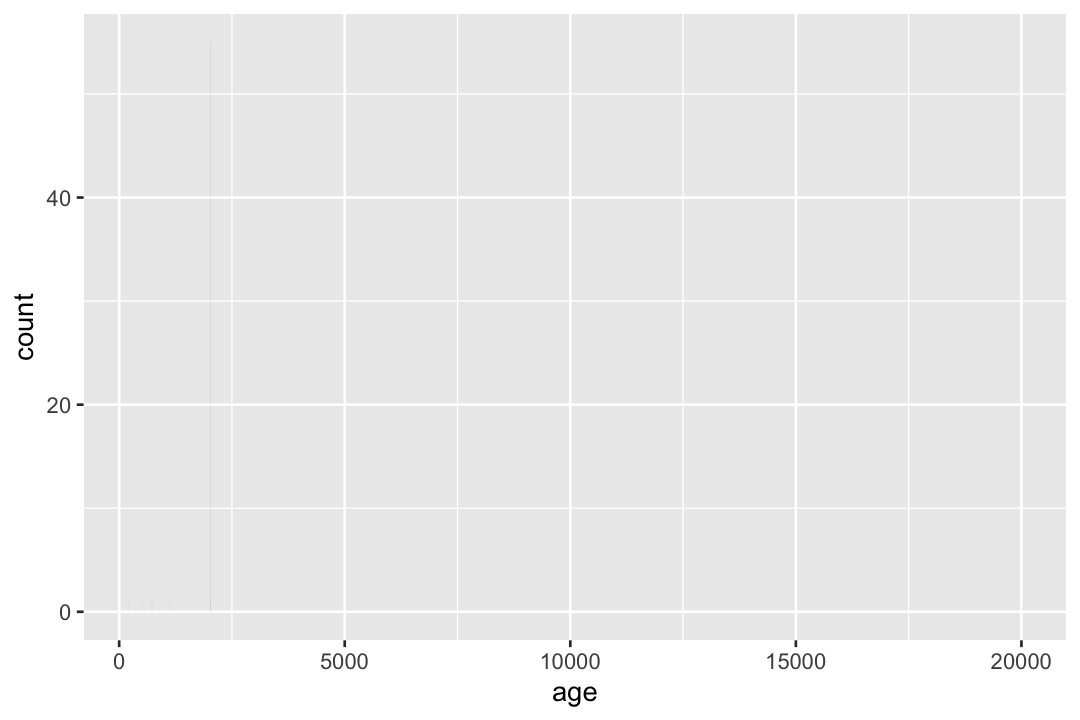
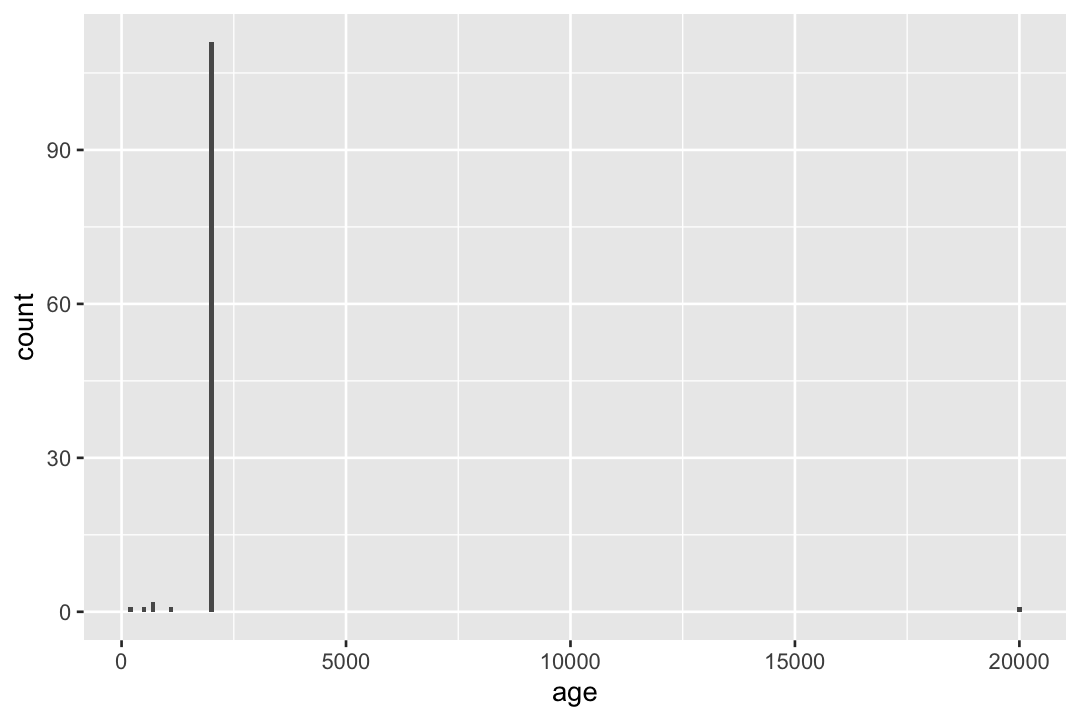
r

diff --git a/docs/contents/cleaning.html b/docs/contents/cleaning.html
@@ -6,7 +6,7 @@
 
 <meta name="viewport" content="width=device-width, initial-scale=1.0, user-scalable=yes">
 
-<meta name="dcterms.date" content="2025-03-13">
+<meta name="dcterms.date" content="2025-03-20">
 
 <title>Cleaning –  CHA Statistics in R</title>
 <style>
@@ -371,7 +371,7 @@ gtag('config', 'G-3JGE58SZ6T', { 'anonymize_ip': true});
     <div>
     <div class="quarto-title-meta-heading">Published</div>
     <div class="quarto-title-meta-contents">
-      <p class="date">March 13, 2025</p>
+      <p class="date">March 20, 2025</p>
     </div>
   </div>
   
@@ -393,7 +393,7 @@ gtag('config', 'G-3JGE58SZ6T', { 'anonymize_ip': true});
 <li><code>factor()</code> : 카테고리 변수의 변환</li>
 </ul>
 <p>앞서 다운받은 데이터: <a href="https://www.dropbox.com/s/fvuoi6jev84bnkc/altruism.csv?dl=1">altruism.csv 파일 링크</a></p>
-<div id="cell-3" class="cell" data-vscode="{&quot;languageId&quot;:&quot;r&quot;}" data-execution_count="2">
+<div id="cell-3" class="cell" data-vscode="{&quot;languageId&quot;:&quot;r&quot;}" data-execution_count="3">
 <div class="sourceCode cell-code" id="cb1"><pre class="sourceCode r code-with-copy"><code class="sourceCode r"><span id="cb1-1"><a href="#cb1-1" aria-hidden="true" tabindex="-1"></a><span class="fu">library</span>(tidyverse)</span>
 <span id="cb1-2"><a href="#cb1-2" aria-hidden="true" tabindex="-1"></a></span>
 <span id="cb1-3"><a href="#cb1-3" aria-hidden="true" tabindex="-1"></a><span class="co"># import data</span></span>
@@ -416,7 +416,7 @@ gtag('config', 'G-3JGE58SZ6T', { 'anonymize_ip': true});
 <section id="변수명-수정" class="level3">
 <h3 class="anchored" data-anchor-id="변수명-수정">변수명 수정</h3>
 <p><code>rename()</code></p>
-<div id="cell-5" class="cell" data-vscode="{&quot;languageId&quot;:&quot;r&quot;}" data-execution_count="3">
+<div id="cell-5" class="cell" data-vscode="{&quot;languageId&quot;:&quot;r&quot;}" data-execution_count="4">
 <div class="sourceCode cell-code" id="cb3"><pre class="sourceCode r code-with-copy"><code class="sourceCode r"><span id="cb3-1"><a href="#cb3-1" aria-hidden="true" tabindex="-1"></a>helping <span class="sc">|&gt;</span></span>
 <span id="cb3-2"><a href="#cb3-2" aria-hidden="true" tabindex="-1"></a>  <span class="fu">rename</span>(<span class="at">ph1 =</span> pho_1, <span class="at">ph2 =</span> pho_2, <span class="at">ph3 =</span> pho_3) <span class="sc">|&gt;</span></span>
 <span id="cb3-3"><a href="#cb3-3" aria-hidden="true" tabindex="-1"></a>  <span class="fu">print</span>()</span></code><button title="Copy to Clipboard" class="code-copy-button"><i class="bi"></i></button></pre></div>
@@ -435,7 +435,7 @@ gtag('config', 'G-3JGE58SZ6T', { 'anonymize_ip': true});
 </div>
 </div>
 <p>변형 후에는 꼭 변수에 <strong>assign!</strong></p>
-<div id="cell-7" class="cell" data-vscode="{&quot;languageId&quot;:&quot;r&quot;}" data-execution_count="4">
+<div id="cell-7" class="cell" data-vscode="{&quot;languageId&quot;:&quot;r&quot;}" data-execution_count="5">
 <div class="sourceCode cell-code" id="cb5"><pre class="sourceCode r code-with-copy"><code class="sourceCode r"><span id="cb5-1"><a href="#cb5-1" aria-hidden="true" tabindex="-1"></a>helping <span class="ot">&lt;-</span> <span class="co"># 원래 데이터에 overwrite</span></span>
 <span id="cb5-2"><a href="#cb5-2" aria-hidden="true" tabindex="-1"></a>  helping <span class="sc">|&gt;</span></span>
 <span id="cb5-3"><a href="#cb5-3" aria-hidden="true" tabindex="-1"></a>  <span class="fu">rename</span>(<span class="at">ph1 =</span> pho_1, <span class="at">ph2 =</span> pho_2, <span class="at">ph3 =</span> pho_3)</span>
@@ -460,7 +460,7 @@ gtag('config', 'G-3JGE58SZ6T', { 'anonymize_ip': true});
 <h3 class="anchored" data-anchor-id="문항을-더할-때">문항을 더할 때</h3>
 <p><code>rowSums(row, na.rm = TRUE)</code> 함수를 이용하는 것이 직접 덧셈보다 더 적절함</p>
 <p><code>ph1</code>, <code>ph2</code>, <code>ph3</code> 세 문항을 더하려면,</p>
-<div id="cell-10" class="cell" data-vscode="{&quot;languageId&quot;:&quot;r&quot;}" data-execution_count="5">
+<div id="cell-10" class="cell" data-vscode="{&quot;languageId&quot;:&quot;r&quot;}" data-execution_count="6">
 <div class="sourceCode cell-code" id="cb7"><pre class="sourceCode r code-with-copy"><code class="sourceCode r"><span id="cb7-1"><a href="#cb7-1" aria-hidden="true" tabindex="-1"></a><span class="co"># 먼저 문항을 선택/확인</span></span>
 <span id="cb7-2"><a href="#cb7-2" aria-hidden="true" tabindex="-1"></a>helping <span class="sc">|&gt;</span></span>
 <span id="cb7-3"><a href="#cb7-3" aria-hidden="true" tabindex="-1"></a>  <span class="fu">select</span>(ph1<span class="sc">:</span>ph3) <span class="sc">|&gt;</span> <span class="co"># position!</span></span>
@@ -478,7 +478,7 @@ gtag('config', 'G-3JGE58SZ6T', { 'anonymize_ip': true});
 # i 114 more rows</code></pre>
 </div>
 </div>
-<div id="cell-11" class="cell" data-vscode="{&quot;languageId&quot;:&quot;r&quot;}" data-execution_count="6">
+<div id="cell-11" class="cell" data-vscode="{&quot;languageId&quot;:&quot;r&quot;}" data-execution_count="7">
 <div class="sourceCode cell-code" id="cb9"><pre class="sourceCode r code-with-copy"><code class="sourceCode r"><span id="cb9-1"><a href="#cb9-1" aria-hidden="true" tabindex="-1"></a>helping <span class="sc">|&gt;</span></span>
 <span id="cb9-2"><a href="#cb9-2" aria-hidden="true" tabindex="-1"></a>  <span class="fu">select</span>(ph1<span class="sc">:</span>ph3) <span class="sc">|&gt;</span></span>
 <span id="cb9-3"><a href="#cb9-3" aria-hidden="true" tabindex="-1"></a>  <span class="fu">rowSums</span>(<span class="at">na.rm =</span> <span class="cn">TRUE</span>) <span class="sc">|&gt;</span></span>
@@ -493,7 +493,7 @@ gtag('config', 'G-3JGE58SZ6T', { 'anonymize_ip': true});
 [109] 197 294 280 195 255   1 162 278 176 262 300 164</code></pre>
 </div>
 </div>
-<div id="cell-12" class="cell" data-vscode="{&quot;languageId&quot;:&quot;r&quot;}" data-execution_count="7">
+<div id="cell-12" class="cell" data-vscode="{&quot;languageId&quot;:&quot;r&quot;}" data-execution_count="8">
 <div class="sourceCode cell-code" id="cb11"><pre class="sourceCode r code-with-copy"><code class="sourceCode r"><span id="cb11-1"><a href="#cb11-1" aria-hidden="true" tabindex="-1"></a>helping[<span class="st">"phone"</span>] <span class="ot">&lt;-</span> <span class="co"># "phone"이라는 새로운 변수에 assign!</span></span>
 <span id="cb11-2"><a href="#cb11-2" aria-hidden="true" tabindex="-1"></a>  helping <span class="sc">|&gt;</span></span>
 <span id="cb11-3"><a href="#cb11-3" aria-hidden="true" tabindex="-1"></a>  <span class="fu">select</span>(ph1<span class="sc">:</span>ph3) <span class="sc">|&gt;</span></span>
@@ -557,7 +557,7 @@ Note
 <section id="문항을-평균낼-때" class="level3">
 <h3 class="anchored" data-anchor-id="문항을-평균낼-때">문항을 평균낼 때</h3>
 <p><code>rowMeans(row, na.rm = TRUE)</code> 함수를 이용하는 것이 적절함</p>
-<div id="cell-15" class="cell" data-vscode="{&quot;languageId&quot;:&quot;r&quot;}" data-execution_count="8">
+<div id="cell-15" class="cell" data-vscode="{&quot;languageId&quot;:&quot;r&quot;}" data-execution_count="9">
 <div class="sourceCode cell-code" id="cb14"><pre class="sourceCode r code-with-copy"><code class="sourceCode r"><span id="cb14-1"><a href="#cb14-1" aria-hidden="true" tabindex="-1"></a><span class="co"># 먼저, 평균을 낼 문항을 선택/확인</span></span>
 <span id="cb14-2"><a href="#cb14-2" aria-hidden="true" tabindex="-1"></a>helping <span class="sc">|&gt;</span></span>
 <span id="cb14-3"><a href="#cb14-3" aria-hidden="true" tabindex="-1"></a>  <span class="fu">select</span>(emp_q20, emp_q22<span class="sc">:</span>emp_q26) <span class="sc">|&gt;</span> <span class="co"># ":" operator와 "," 섞어써도 무방</span></span>
@@ -575,7 +575,7 @@ Note
 # i 114 more rows</code></pre>
 </div>
 </div>
-<div id="cell-16" class="cell" data-vscode="{&quot;languageId&quot;:&quot;r&quot;}" data-execution_count="9">
+<div id="cell-16" class="cell" data-vscode="{&quot;languageId&quot;:&quot;r&quot;}" data-execution_count="10">
 <div class="sourceCode cell-code" id="cb16"><pre class="sourceCode r code-with-copy"><code class="sourceCode r"><span id="cb16-1"><a href="#cb16-1" aria-hidden="true" tabindex="-1"></a>helping[<span class="st">"persp"</span>] <span class="ot">&lt;-</span> helping <span class="sc">|&gt;</span> <span class="co"># "persp"라는 새로운 변수에 assign!</span></span>
 <span id="cb16-2"><a href="#cb16-2" aria-hidden="true" tabindex="-1"></a>  <span class="fu">select</span>(emp_q20, emp_q22<span class="sc">:</span>emp_q26) <span class="sc">|&gt;</span></span>
 <span id="cb16-3"><a href="#cb16-3" aria-hidden="true" tabindex="-1"></a>  <span class="fu">rowMeans</span>(<span class="at">na.rm =</span> <span class="cn">TRUE</span>)</span>
@@ -627,7 +627,7 @@ Note
 <li>표준화(standardize): <code>scale(x)</code> 함수를 이용</li>
 <li>중심화(center): <code>scale(x, scale = FALSE)</code> 함수를 이용</li>
 </ul>
-<div id="cell-19" class="cell" data-vscode="{&quot;languageId&quot;:&quot;r&quot;}" data-execution_count="12">
+<div id="cell-19" class="cell" data-vscode="{&quot;languageId&quot;:&quot;r&quot;}" data-execution_count="11">
 <div class="sourceCode cell-code" id="cb19"><pre class="sourceCode r code-with-copy"><code class="sourceCode r"><span id="cb19-1"><a href="#cb19-1" aria-hidden="true" tabindex="-1"></a>helping <span class="sc">|&gt;</span></span>
 <span id="cb19-2"><a href="#cb19-2" aria-hidden="true" tabindex="-1"></a>  <span class="fu">mutate</span>(</span>
 <span id="cb19-3"><a href="#cb19-3" aria-hidden="true" tabindex="-1"></a>    <span class="at">phone_z =</span> <span class="fu">scale</span>(phone) <span class="sc">|&gt;</span> <span class="fu">as.vector</span>(), <span class="co"># scale()은 matrix로 반환; vector 변환 필요</span></span>
@@ -650,7 +650,7 @@ Note
 </div>
 </div>
 <p><code>across()</code> 함수를 이용하면 여러 변수를 한 번에 변환할 수 있음</p>
-<div id="cell-21" class="cell" data-vscode="{&quot;languageId&quot;:&quot;r&quot;}" data-execution_count="13">
+<div id="cell-21" class="cell" data-vscode="{&quot;languageId&quot;:&quot;r&quot;}" data-execution_count="12">
 <div class="sourceCode cell-code" id="cb21"><pre class="sourceCode r code-with-copy"><code class="sourceCode r"><span id="cb21-1"><a href="#cb21-1" aria-hidden="true" tabindex="-1"></a>helping <span class="sc">|&gt;</span></span>
 <span id="cb21-2"><a href="#cb21-2" aria-hidden="true" tabindex="-1"></a>  <span class="fu">mutate</span>(<span class="fu">across</span>(</span>
 <span id="cb21-3"><a href="#cb21-3" aria-hidden="true" tabindex="-1"></a>    <span class="at">.cols =</span> <span class="fu">c</span>(phone, persp),</span>
@@ -678,7 +678,7 @@ Note
 <h3 class="anchored" data-anchor-id="카테고리-변수-및-연산">카테고리 변수 및 연산</h3>
 <p>카테고리 변수는 R의 <strong>factor</strong> 타입으로 바꾸어 분석하는 것이 유리함.</p>
 <p>간단한 연산은 직접 계산.</p>
-<div id="cell-23" class="cell" data-vscode="{&quot;languageId&quot;:&quot;r&quot;}" data-execution_count="14">
+<div id="cell-23" class="cell" data-vscode="{&quot;languageId&quot;:&quot;r&quot;}" data-execution_count="13">
 <div class="sourceCode cell-code" id="cb23"><pre class="sourceCode r code-with-copy"><code class="sourceCode r"><span id="cb23-1"><a href="#cb23-1" aria-hidden="true" tabindex="-1"></a>helping <span class="sc">|&gt;</span></span>
 <span id="cb23-2"><a href="#cb23-2" aria-hidden="true" tabindex="-1"></a>  <span class="fu">mutate</span>(</span>
 <span id="cb23-3"><a href="#cb23-3" aria-hidden="true" tabindex="-1"></a>    <span class="at">sex =</span> <span class="fu">factor</span>(sex, <span class="at">levels =</span> <span class="fu">c</span>(<span class="dv">0</span>, <span class="dv">1</span>), <span class="at">labels =</span> <span class="fu">c</span>(<span class="st">"male"</span>, <span class="st">"female"</span>)), <span class="co"># factor 타입의 변수로 변환</span></span>
@@ -711,7 +711,7 @@ Note
 <h3 class="anchored" data-anchor-id="행의-삭제">행의 삭제</h3>
 <p><code>filter()</code>를 활용</p>
 <p>예를 들어, 5번째 행을 지우려면</p>
-<div id="cell-25" class="cell" data-vscode="{&quot;languageId&quot;:&quot;r&quot;}">
+<div id="cell-25" class="cell" data-vscode="{&quot;languageId&quot;:&quot;r&quot;}" data-execution_count="14">
 <div class="sourceCode cell-code" id="cb25"><pre class="sourceCode r code-with-copy"><code class="sourceCode r"><span id="cb25-1"><a href="#cb25-1" aria-hidden="true" tabindex="-1"></a>helping <span class="sc">|&gt;</span></span>
 <span id="cb25-2"><a href="#cb25-2" aria-hidden="true" tabindex="-1"></a>  <span class="fu">filter</span>(<span class="sc">!</span>id <span class="sc">==</span> <span class="dv">5</span>) <span class="sc">|&gt;</span> <span class="co"># !는 not의 의미</span></span>
 <span id="cb25-3"><a href="#cb25-3" aria-hidden="true" tabindex="-1"></a>  <span class="fu">print</span>()</span>
@@ -733,7 +733,7 @@ Note
 </div>
 <p>여러 행을 지우려면?<br>
 <code>%in%</code> 응용</p>
-<div id="cell-27" class="cell" data-vscode="{&quot;languageId&quot;:&quot;r&quot;}">
+<div id="cell-27" class="cell" data-vscode="{&quot;languageId&quot;:&quot;r&quot;}" data-execution_count="15">
 <div class="sourceCode cell-code" id="cb27"><pre class="sourceCode r code-with-copy"><code class="sourceCode r"><span id="cb27-1"><a href="#cb27-1" aria-hidden="true" tabindex="-1"></a>helping <span class="sc">|&gt;</span></span>
 <span id="cb27-2"><a href="#cb27-2" aria-hidden="true" tabindex="-1"></a>  <span class="fu">filter</span>(<span class="sc">!</span>id <span class="sc">%in%</span> <span class="fu">c</span>(<span class="dv">1</span>, <span class="dv">3</span>, <span class="dv">5</span>)) <span class="sc">|&gt;</span> <span class="co"># !는 not의 의미</span></span>
 <span id="cb27-3"><a href="#cb27-3" aria-hidden="true" tabindex="-1"></a>  <span class="fu">print</span>()</span></code><button title="Copy to Clipboard" class="code-copy-button"><i class="bi"></i></button></pre></div>
@@ -756,7 +756,7 @@ Note
 <h3 class="anchored" data-anchor-id="열의-삭제">열의 삭제</h3>
 <p><code>select()</code> 활용</p>
 <p><code>emp_q23</code>, <code>emp_q25</code> 두 열을 삭제</p>
-<div id="cell-29" class="cell" data-vscode="{&quot;languageId&quot;:&quot;r&quot;}" data-execution_count="17">
+<div id="cell-29" class="cell" data-vscode="{&quot;languageId&quot;:&quot;r&quot;}" data-execution_count="16">
 <div class="sourceCode cell-code" id="cb29"><pre class="sourceCode r code-with-copy"><code class="sourceCode r"><span id="cb29-1"><a href="#cb29-1" aria-hidden="true" tabindex="-1"></a>helping <span class="sc">|&gt;</span></span>
 <span id="cb29-2"><a href="#cb29-2" aria-hidden="true" tabindex="-1"></a>  <span class="fu">select</span>(<span class="sc">-</span>emp_q23, <span class="sc">-</span>emp_q25) <span class="sc">|&gt;</span></span>
 <span id="cb29-3"><a href="#cb29-3" aria-hidden="true" tabindex="-1"></a>  <span class="fu">print</span>()</span></code><button title="Copy to Clipboard" class="code-copy-button"><i class="bi"></i></button></pre></div>
@@ -775,7 +775,7 @@ Note
 </div>
 </div>
 <p><code>emp_q23</code>부터 <code>emp_q26</code> 열을 삭제 (위치의 의미로)</p>
-<div id="cell-31" class="cell" data-vscode="{&quot;languageId&quot;:&quot;r&quot;}" data-execution_count="18">
+<div id="cell-31" class="cell" data-vscode="{&quot;languageId&quot;:&quot;r&quot;}" data-execution_count="17">
 <div class="sourceCode cell-code" id="cb31"><pre class="sourceCode r code-with-copy"><code class="sourceCode r"><span id="cb31-1"><a href="#cb31-1" aria-hidden="true" tabindex="-1"></a>helping <span class="sc">|&gt;</span></span>
 <span id="cb31-2"><a href="#cb31-2" aria-hidden="true" tabindex="-1"></a>  <span class="fu">select</span>(<span class="sc">-</span>(emp_q23<span class="sc">:</span>emp_q26)) <span class="sc">|&gt;</span> <span class="co"># () 꼭 필요</span></span>
 <span id="cb31-3"><a href="#cb31-3" aria-hidden="true" tabindex="-1"></a>  <span class="fu">print</span>()</span></code><button title="Copy to Clipboard" class="code-copy-button"><i class="bi"></i></button></pre></div>
@@ -798,12 +798,12 @@ Note
 <h2 class="anchored" data-anchor-id="이상치-발견">이상치 발견</h2>
 <p>Outliers을 찾는 방법은 다양하고 복잡한 테크닉을 요하기도 하는데, 앞으로 점차 익히게 될 것임</p>
 <p>예를 들어, <code>age</code>에 잘못 기입한 경우가 있는데</p>
-<div id="cell-34" class="cell" data-vscode="{&quot;languageId&quot;:&quot;r&quot;}" data-execution_count="21">
+<div id="cell-34" class="cell" data-vscode="{&quot;languageId&quot;:&quot;r&quot;}" data-execution_count="25">
 <div class="sourceCode cell-code" id="cb33"><pre class="sourceCode r code-with-copy"><code class="sourceCode r"><span id="cb33-1"><a href="#cb33-1" aria-hidden="true" tabindex="-1"></a>helping <span class="ot">&lt;-</span> <span class="fu">read_csv</span>(<span class="st">"data/altruism.csv"</span>)</span>
 <span id="cb33-2"><a href="#cb33-2" aria-hidden="true" tabindex="-1"></a></span>
 <span id="cb33-3"><a href="#cb33-3" aria-hidden="true" tabindex="-1"></a>helping <span class="sc">|&gt;</span></span>
 <span id="cb33-4"><a href="#cb33-4" aria-hidden="true" tabindex="-1"></a>  <span class="fu">ggplot</span>(<span class="fu">aes</span>(<span class="at">x =</span> age)) <span class="sc">+</span></span>
-<span id="cb33-5"><a href="#cb33-5" aria-hidden="true" tabindex="-1"></a>  <span class="fu">geom_histogram</span>(<span class="at">binwidth =</span> <span class="dv">1</span>)</span></code><button title="Copy to Clipboard" class="code-copy-button"><i class="bi"></i></button></pre></div>
+<span id="cb33-5"><a href="#cb33-5" aria-hidden="true" tabindex="-1"></a>  <span class="fu">geom_histogram</span>(<span class="at">binwidth =</span> <span class="dv">100</span>)</span></code><button title="Copy to Clipboard" class="code-copy-button"><i class="bi"></i></button></pre></div>
 <div class="cell-output cell-output-display">
 <div>
 <figure class="figure">
